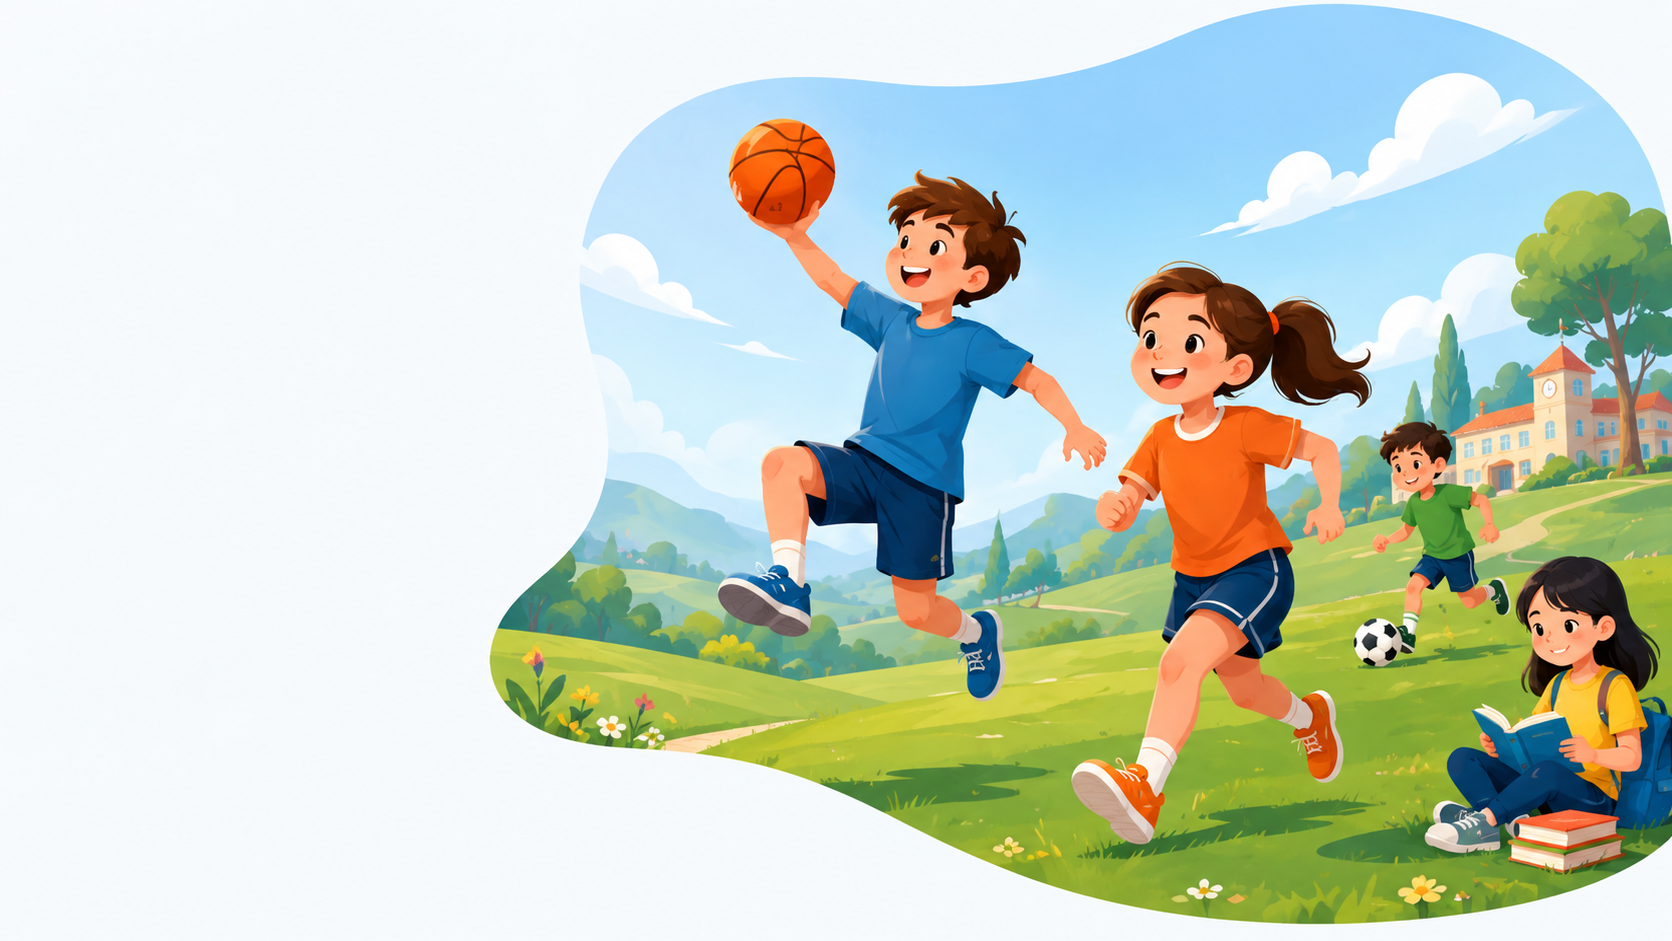
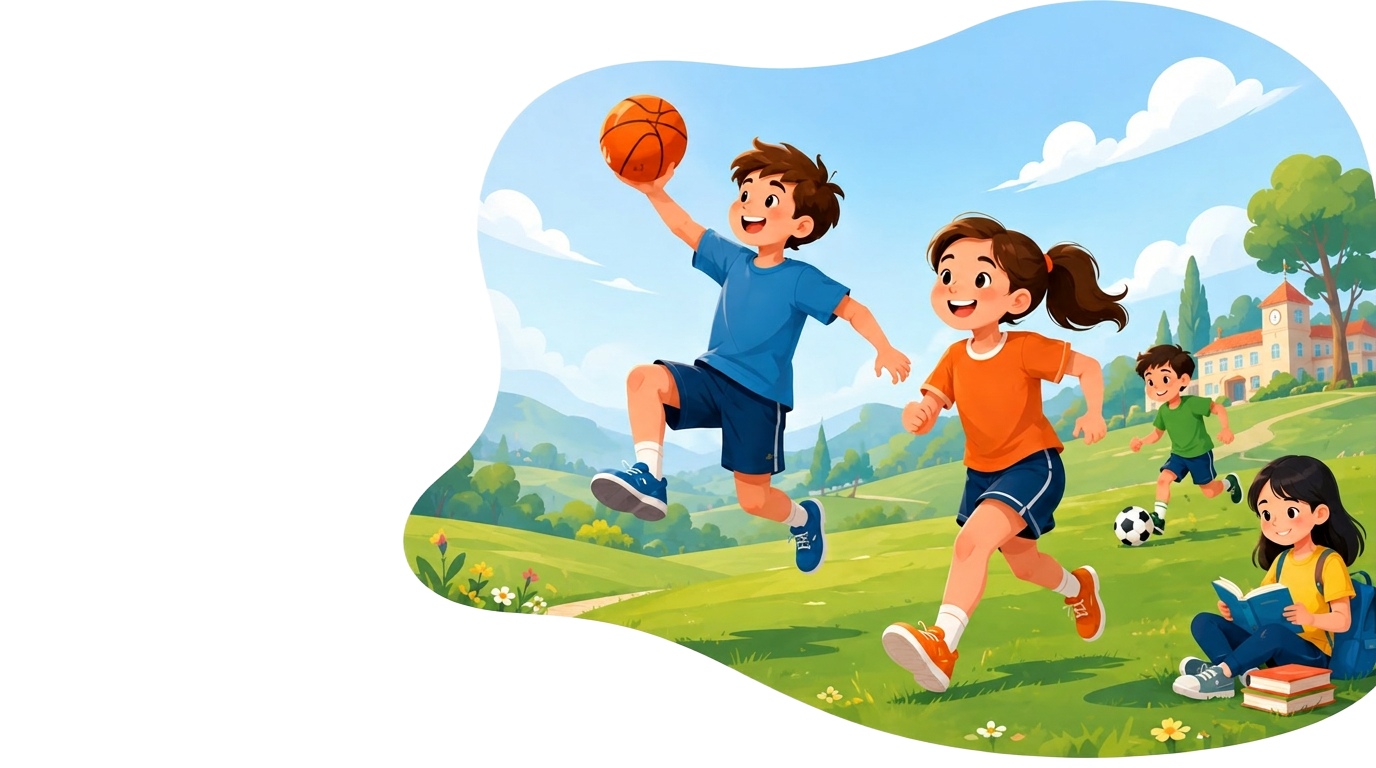
Changes

diff --git a/.lovable/plan.md b/.lovable/plan.md
@@ -1,1 +1,3 @@
-Sostituire l'asset hero con il nuovo upload e rimuovere il clipPath SVG che sta deformando l'immagine (la blob shape è già integrata nell'illustrazione). Tornare a un layout `lg:grid-cols-2` semplice con l'immagine `object-contain` allineata a destra, mantenendo testi, CTA e stats card invariati.
+1. Rigenerare `src/assets/hero-home.png` con sfondo trasparente (via imagegen edit_image, transparent_background=true) per eliminare il riquadro azzurrino attorno alla blob.
+2. In `HeroGameSection.tsx`: cambiare grid in `lg:grid-cols-[1fr_1.25fr]`, aggiungere full-bleed a destra sul wrapper immagine con margine negativo verso il viewport, e usare `w-full h-auto` (no object-contain) per farla scalare grande come nella reference.
+3. Lasciare invariati testi, CTA e stats card.
